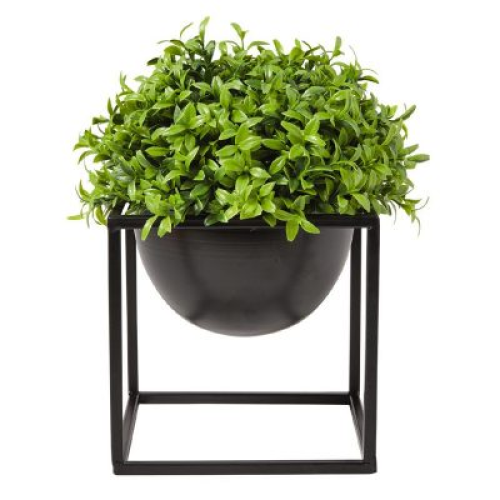
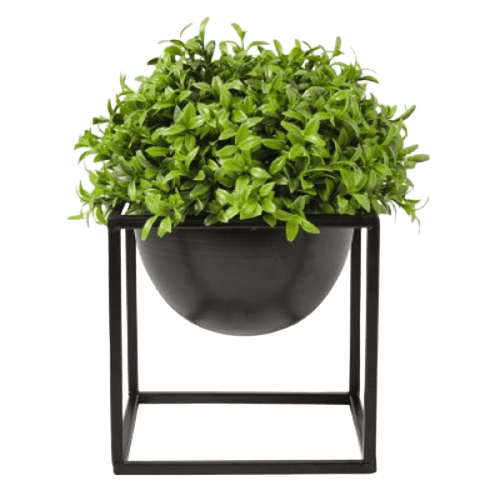
created section 3 | created section 4 using flex

diff --git a/styles/index.css b/styles/index.css
@@ -237,6 +237,7 @@ header {
     min-height: 100%;
     width: calc(100% - 360px);
     padding-left: 40px;
+    margin-bottom: 90px;
 
     .filters {
         display: flex;
@@ -341,14 +342,167 @@ header {
             text-decoration: none;
             font-weight: 700;
             font-size: 18px;
-        
 
-        &:hover,
-        &.active {
-            background: #46A358;
-            color: #fff;
-            border-color: #46A358;
+
+            &:hover,
+            &.active {
+                background: #46A358;
+                color: #fff;
+                border-color: #46A358;
+            }
         }
     }
+}
+
+.section3 .container {
+    display: flex;
+    gap: 28px;
+    margin-bottom: 136px;
+}
+
+.section3 .left-side,
+.section3 .right-side {
+    height: 250px;
+    flex: 1;
+    display: flex;
+    align-items: center;
+    background: hsl(0, 0%, 98%);
+    box-sizing: border-box;
+
+    .sub-left {
+        max-width: 50%;
+
+        img {
+            width: 100%;
+            height: auto;
+            margin-top: -52px;
+        }
+    }
+
+    .sub-right {
+        box-sizing: border-box;
+        padding: 36px 28px 0 0;
+        text-align: right;
+
+        h3 {
+            font-weight: 900;
+            font-size: 18px;
+            line-height: 24px;
+            text-transform: uppercase;
+            color: #3D3D3D;
+            margin-bottom: 8px;
+        }
+
+        p {
+            font-size: 14px;
+            line-height: 24px;
+            color: #727272;
+            margin-bottom: 24px;
+            text-align: right;
+            margin-left: -20px;
+        }
+
+        .btn {
+            border-radius: 6px;
+            border: none;
+            background: #46a358;
+            padding: 12px 24px;
+            font-weight: 400;
+            font-size: 14px;
+            line-height: 20px;
+            color: #fff;
+            text-transform: none;
+            cursor: pointer;
+
+        }
+
+    }
+}
+
+.section4 .container {
+    text-align: center;
+}
+
+.section4 .blogHeader {
+    margin-bottom: 36px;
+
+    h3 {
+        font-weight: 700;
+        font-size: 30px;
+        line-height: 16px;
+        text-align: center;
+        color: #3D3D3D;
+        margin-bottom: 16px;
+
+    }
+
+    p {
+        font-weight: 400;
+        font-size: 14px;
+        line-height: 24px;
+        text-align: center;
+        color: #727272;
+    }
+}
+
+.section4 .blogCards {
+    display: flex;
+    gap: 44px;
+    justify-content: center;
+
+    .card {
+        background: #fff;
+        box-shadow: 0 4px 15px rgba(0, 0, 0, 0.05);
+        border-radius: 4px;
+        overflow: hidden;
+        max-width: 268px;
+        text-align: left;
+
+        img {
+            width: 100%;
+            height: auto;
+            display: block;
+        }
+
+        .cardContent {
+            padding: 8px 12px 12px 16px;
+
+            .meta {
+                display: block;
+                font-weight: 500;
+                font-size: 14px;
+                line-height: 16px;
+                color: #46a358;
+                margin-bottom: 4px;
+            }
+
+            h3 {
+                font-weight: 700;
+                font-size: 20px;
+                line-height: 26px;
+                color: #3D3D3D;
+                margin-bottom: 4px;
+            }
+
+            p {
+                font-weight: 400;
+                font-size: 14px;
+                line-height: 22px;
+                color: #727272;
+                margin-bottom: 8px;
+            }
+
+            a {
+                font-weight: 500;
+                font-size: 14px;
+                line-height: 16px;
+                color: #3D3D3D;
+                text-decoration: none;
+
+                &:hover {
+                    color: #46a358;
+                }
+            }
+        }
     }
 }

diff --git a/index.html b/index.html
@@ -137,6 +137,76 @@
                     </div>
                 </div>
         </section>
+        <section class="section3">
+            <div class="container">
+                <div class="left-side">
+                    <div class="sub-left">
+                        <img src="./images/products/product5.png" alt="">
+                    </div>
+                    <div class="sub-right">
+                        <h3>Summer cactus <br>& succulents</h3>
+                        <p>We are an online plant shop offering a wide range of cheap and trendy plants</p>
+                        <button class="btn">Find More →</button>
+                    </div>
+                </div>
+                <div class="right-side">
+                    <div class="sub-left">
+                        <img src="./images/products/product3.png" alt="">
+                    </div>
+                    <div class="sub-right">
+                        <h3>Styling Trends <br>& much more</h3>
+                        <p>We are an online plant shop offering a wide range of cheap and trendy plants</p>
+                        <button class="btn">Find More →</button>
+                    </div>
+                </div>
+            </div>
+        </section>
+        <section class="section4">
+            <div class="container">
+                <div class="blogHeader">
+                    <h3>Our Blog Posts</h3>
+                    <p>We are an online plant shop offering a wide range of cheap and trendy plants. </p>
+                </div>
+                <div class="blogCards">
+                    <div class="card">
+                        <img src="./images/blog1.png" alt="">
+                        <div class="cardContent">
+                            <span class="meta">September 12 | Read in 6 minutes</span>
+                            <h3>Cactus & Succulent<br> Care Tips</h3>
+                            <p>Cacti are succulents are easy care plants for any home or patio.</p>
+                            <a href="#">Read More →</a>
+                        </div>
+                    </div>
+                    <div class="card">
+                        <img src="./images/blog2.png" alt="">
+                        <div class="card-content">
+                            <span class="meta">September 13 | Read in 2 minutes</span>
+                            <h3>Top 10 Succulents for Your Home</h3>
+                            <p>Best in hanging baskets. Prefers medium to high light.</p>
+                            <a href="#">Read More →</a>
+                        </div>
+                    </div>
+                    <div class="card">
+                        <img src="./images/blog3.png" alt="">
+                        <div class="card-content">
+                            <span class="meta">September 15 | Read in 3 minutes</span>
+                            <h3>Cacti & Succulent<br> Care Tips</h3>
+                            <p>Cacti and succulents thrive in containers and because most are..</p>
+                            <a href="#">Read More →</a>
+                        </div>
+                    </div>
+                    <div class="card">
+                        <img src="./images/blog4.png" alt="">
+                        <div class="card-content">
+                            <span class="meta">September 15 | Read in 2 minutes</span>
+                            <h3>Best Houseplants<br> Room by Room</h3>
+                            <p>The benefits of houseplants are endless. In addition to..</p>
+                            <a href="#">Read More →</a>
+                        </div>
+                    </div>
+                </div>
+            </div>
+        </section>
     </main>
 </body>
 
